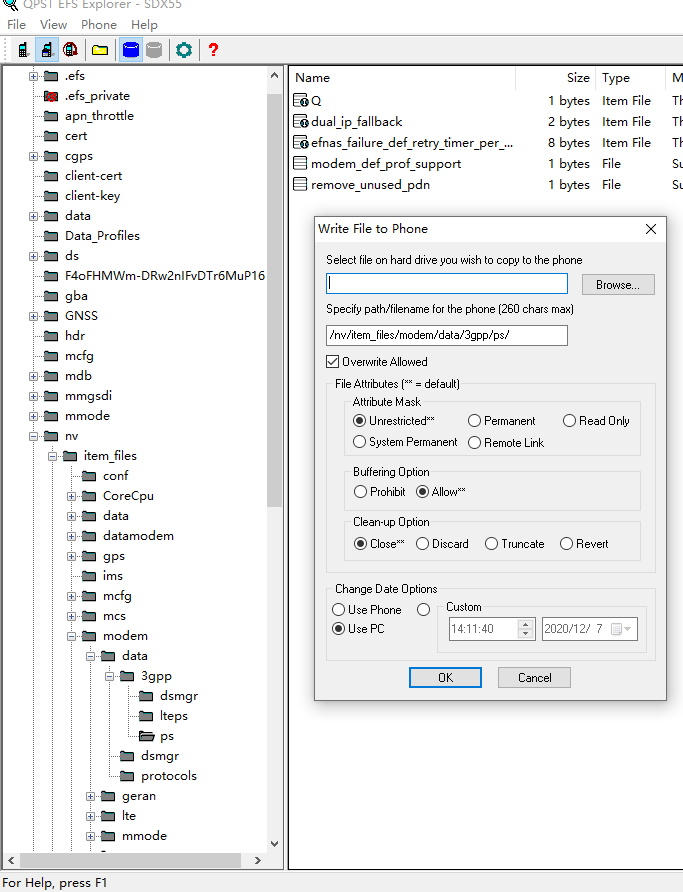
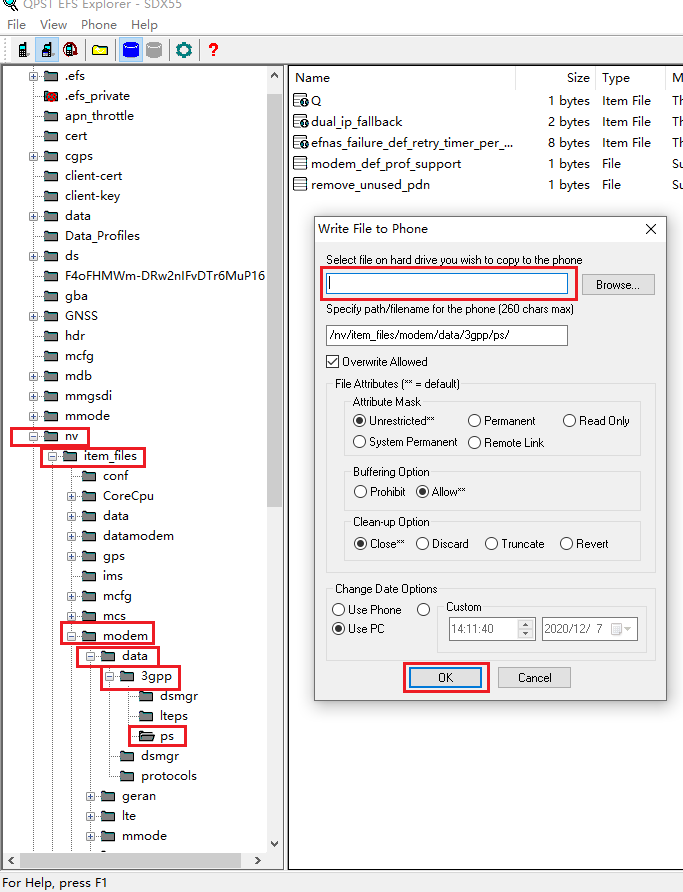
2020年 12月 09日 星期三 11:02:42 CST

diff --git a/applications/Android_Loopback.md b/applications/Android_Loopback.md
@@ -19,7 +19,11 @@ Android Loopback 网速测试
 
 如果模组可以取下来连到Windows PC上，直接用QPST写即可。按照 X55_IPQ8074_rmnet网卡_loopback功能使用说明_20200707_V4.pdf
 
+![](writeNv.png)
+
 如果模块已经和AP做成PCB，无法让模块接到PC上，可以用网络转发方式，需要在AP上运行QLog，QLog内嵌tty2tcp，通过QLog -s 9000，将DM port转发到AP的9000端口上。和AP处于同一局域网的一台Windows PC上运行QPST，将loopback_config.txt 写入模组。X55_IPQ8074_rmnet网卡_loopback功能使用说明_20200707_V4.pdf 中有详细介绍。
+
+
 
 QPST工具及其使用咨询QuectelFAE。
 

diff --git a/FAQs/11.speedtest.md b/FAQs/11.speedtest.md
@@ -13,3 +13,9 @@ SpeedTest
 这点用Bing看看外国人用speedtest的结果，基本上也是这样。按照Speedtest官方说法，speedtest选择的测试服务器不是最优，主要是地理位置算法不对。
 
 
+speedtest官网上的文章
+
+[为什么需要选择一个最近的服务器](https://help.speedtest.net/hc/en-us/articles/360039165333-Why-does-Speedtest-need-to-find-a-nearby-server-)
+
+[为什么显示错误位置](https://help.speedtest.net/hc/en-us/articles/360039164573-Why-does-Speedtest-show-the-wrong-location-)
+

diff --git a/FAQs/12.interrupts.md b/FAQs/12.interrupts.md
@@ -15,3 +15,14 @@
 
 
 这是最大的客户遇到的最常见的瓶颈。
+
+客户可以试试
+
+echo 2 > /sys/class/net/rmnet_usb0/queues/rx-0/rps_cpus<br>
+echo 4 > /sys/class/net/rmnet_usb0.1/queues/rx-0/rps_cpus <br>
+
+其中
+2 表示cpu1，4表示cpu3。
+
+echo f > /sys/class/net/rmnet_usb0.1/queues/rx-0/rps_cpus 这样试图将中断分配在CPU0-3上不一定行得通。
+
